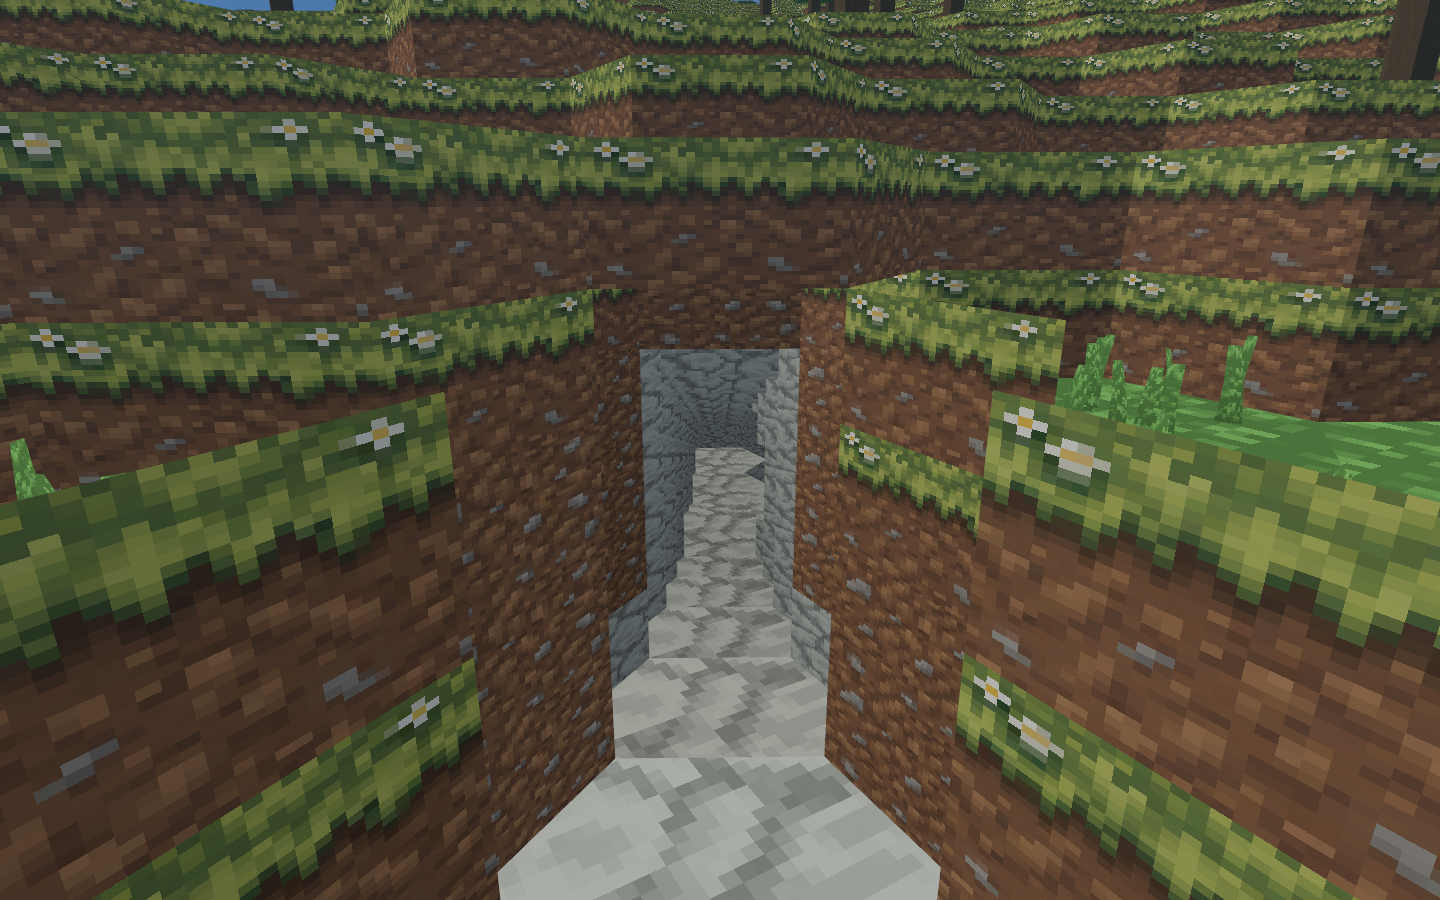
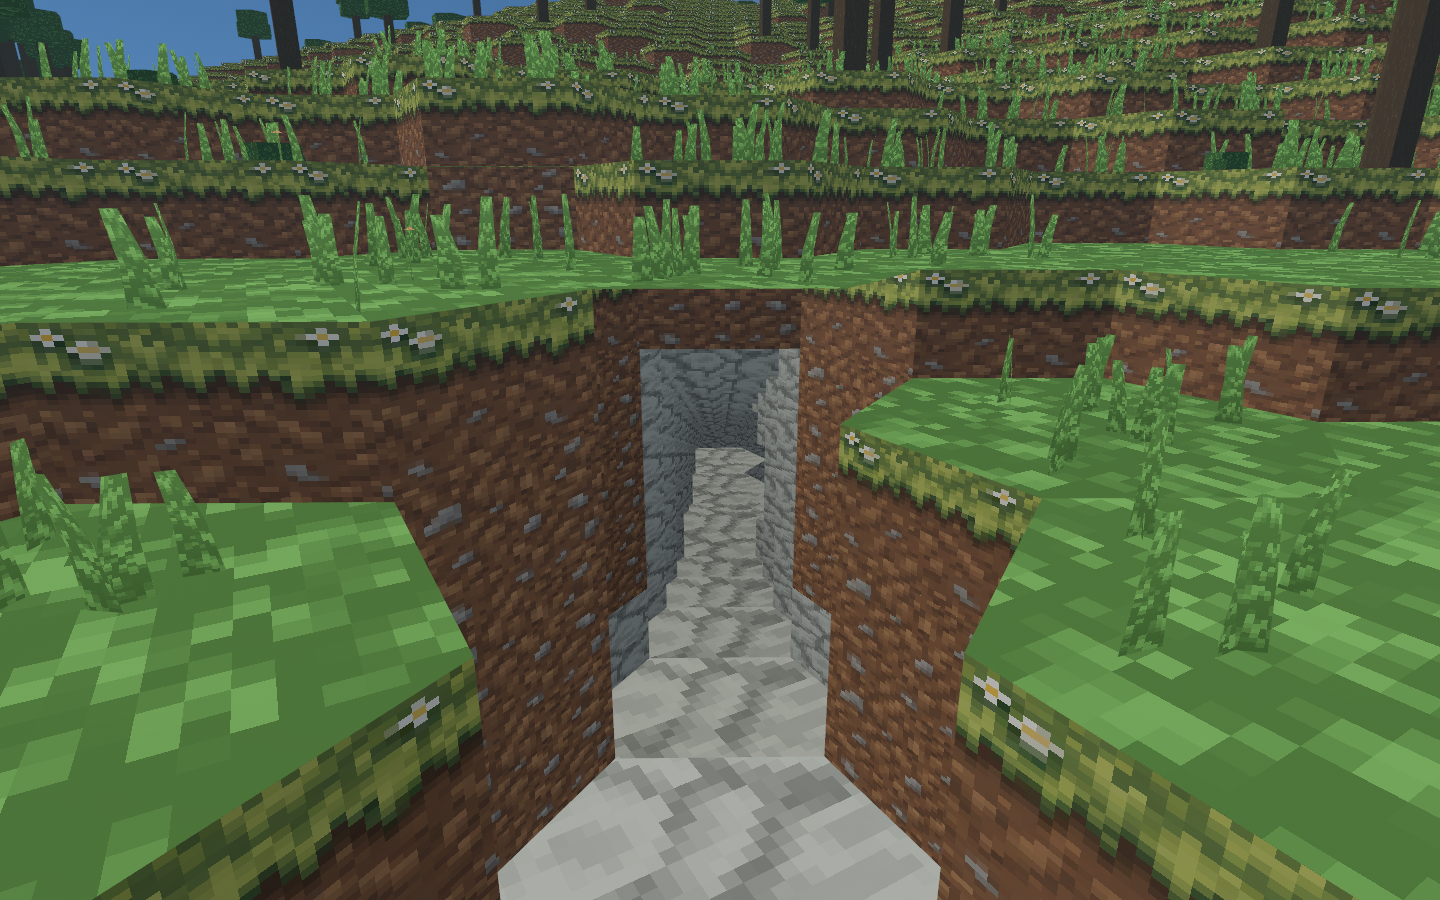
A second wall over the first: the flank stops at the neighbour's cap, always
The owner: an extra layer of wall standing where there should be air, wall with
no floor under it, and a trench wall wearing a stack of grass bands instead of
one at the top. Both are the same line.

A column flank was allowed to run to its own run's TOP on a side shared with
another column, on the reasoning that the terrain pass drew nothing there. It
draws that step again as of the last commit, so a flank that also draws it is a
SECOND wall over the first - and wherever the two disagreed, the second stood
in the air with nothing under it. That is the slab in a flat meadow.

It is also the stacked grass bands. Each flank quad paints its own top metre
with the sod's side, so a duplicate flank drew a second transition partway down
a wall the terrain pass had already drawn correctly. One rule, one wall, one
transition: the trench now reads grass cap, one transition, then earth to the
floor.

Found by bisection rather than by reading: with the column flank disabled the
slab is gone, with the terrain wall disabled it remains. It predates today -
the baseline binary draws the same slab - and the face tiles only made it
legible, because soil used to share the grass code and the slab was the colour
of the meadow behind it. Four other suspects were tested and cleared first: the
fine-floor skirt, the mouth record lowering, the cut wall, and the height
cache.

Measured after: the seam view's background is 404,936 pixels with the sky off,
[…]

diff --git a/openspec/changes/voxel-columns-and-mining/design.md b/openspec/changes/voxel-columns-and-mining/design.md
@@ -455,6 +455,28 @@ the cells it was tested on, underground, and false of every terrace on the
 surface, and nothing in the build could tell the difference because a hole in
 the ground with sky behind it looks exactly like sky.
 
+### And the flank stops at the neighbour's CAP, always
+
+The other half of the same mistake, found the same day and by the same owner:
+a flank was allowed to run to its own run's top on a shared side, on the
+reasoning that the terrain pass drew nothing there. Once the terrain pass draws
+that step again, a flank that also draws it is a SECOND wall over the first -
+and where the two disagreed, the second one stood in the air with no floor
+under it and no cap over it. The owner's picture is a meadow with slabs of
+grass-topped earth standing in it.
+
+It was also why a single trench wall came out with a stack of grass bands down
+its face rather than one at the top. Each flank quad paints its own top metre
+with the sod's side (`if top >= hi-1.001`), so a duplicate flank drew a second
+transition partway down the wall the terrain pass had already drawn correctly.
+One rule, one wall, one transition.
+
+Measured by bisection, with each drawer disabled in turn: with the flank off
+the slab is gone and with the terrain wall off it remains, which is what names
+the flank as the one drawing it. After the clamp the seam view's background is
+404,936 pixels, equal to the tier being off, and `cave_mouths` still counts 9
+openings with 8 walkable.
+
 ### The tier's rim is generated SOLID
 
 A cell outside the tier answers from the heightfield, whose one assumption is
